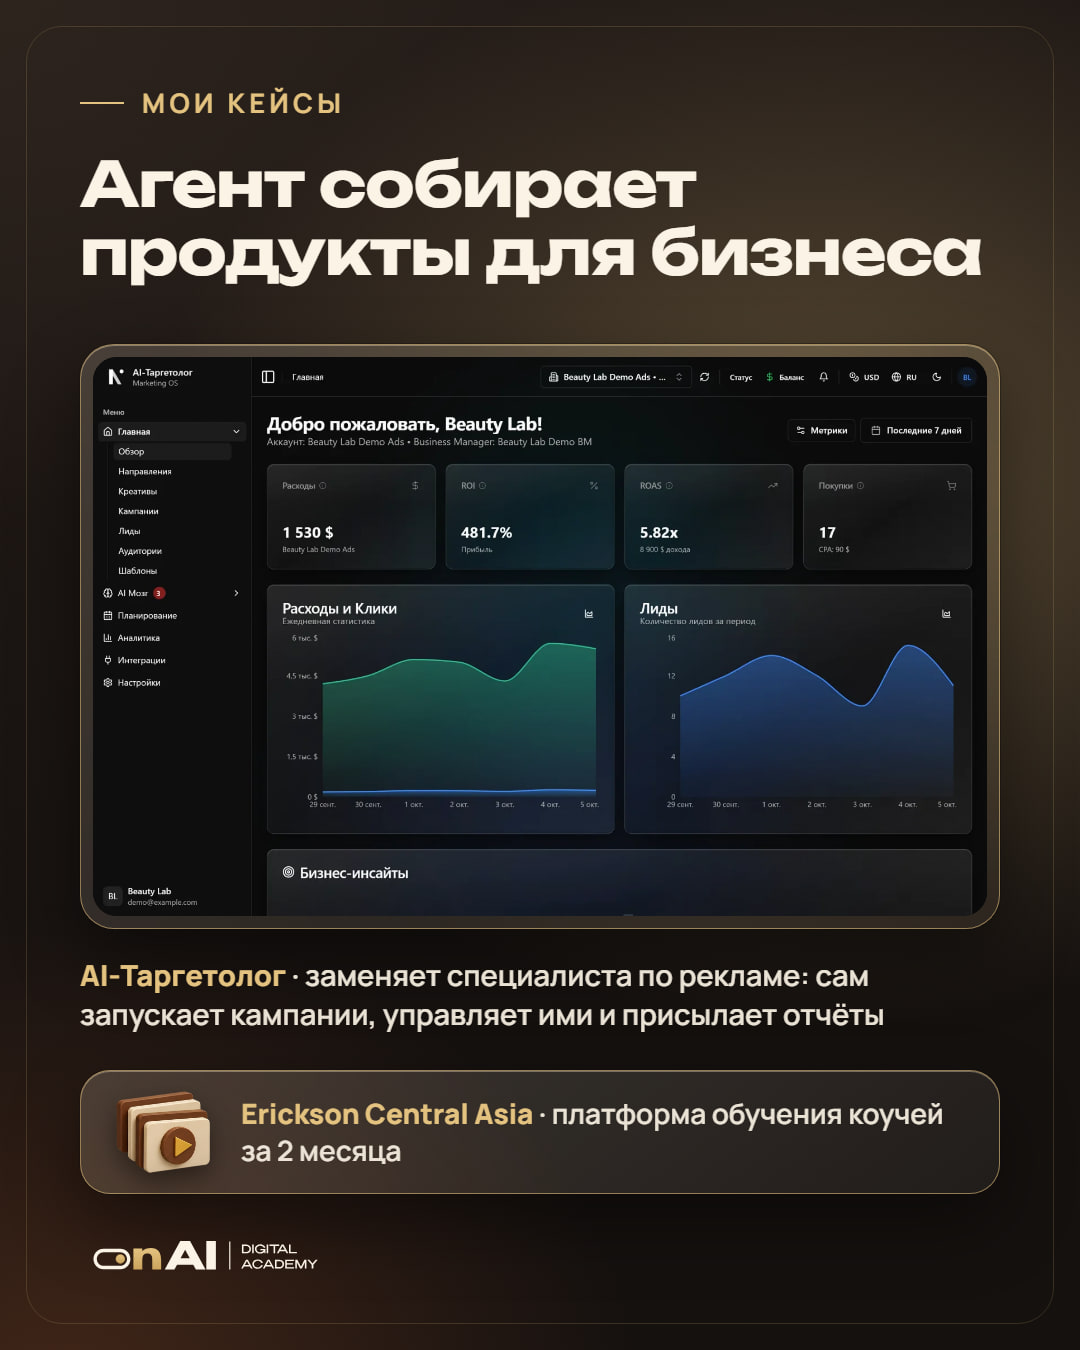
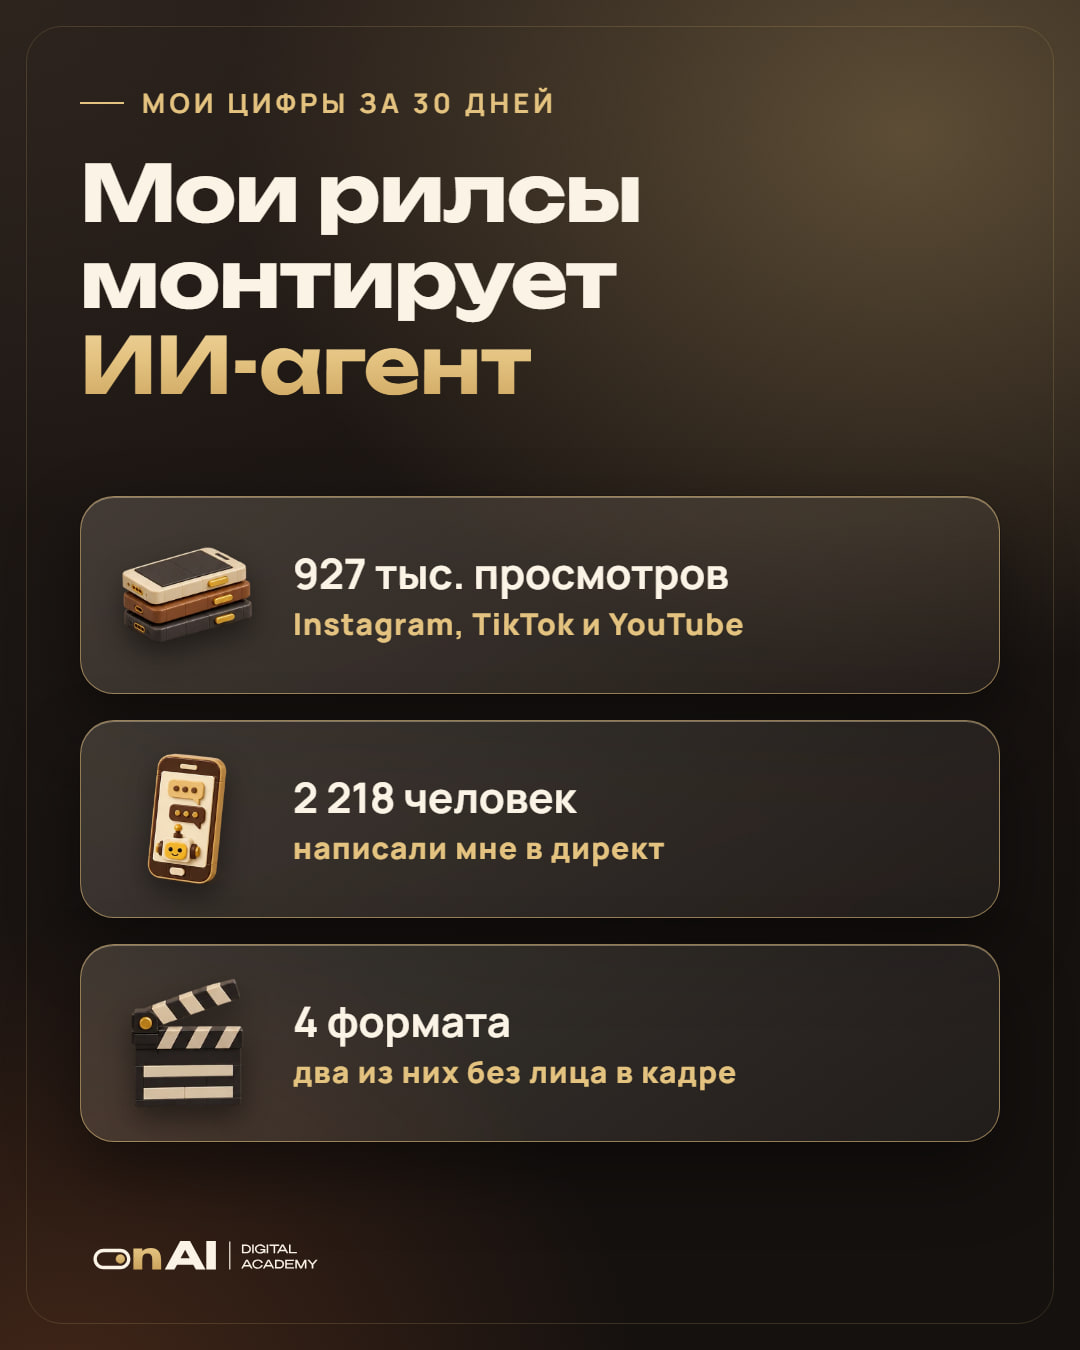
Воронка: карточка warm-cases перерисована под цифры без кейсов, адрес ?v=0810c, тесты 111/111 в UTC и Los Angeles; на сервер не выложено

diff --git a/form-api/tg.test.ts b/form-api/tg.test.ts
@@ -759,9 +759,11 @@ test("tg-series.json: воркшоп только про AI-монтаж, про
   }
   // перерисованные картинки отдаются с новой версией в адресе, иначе бот пришлёт старую из кеша file_id
   assert.match(raw.welcome.media.url, /cover-bizon\.jpg\?v=0810a$/);
-  for (const id of ["topic-p1", "warm-1700", "training-2058"]) {
+  for (const id of ["topic-p1", "training-2058"]) {
     assert.match(sr.messages.find((m) => m.id === id)!.media!.url, /\.jpg\?v=0810a$/, id);
   }
+  // карточка warm-cases перерисована под цифры без кейсов (Александр 08.10): версия 0810c
+  assert.match(sr.messages.find((m) => m.id === "warm-1700")!.media!.url, /warm-cases\.jpg\?v=0810c$/);
   // карточка оффера перерисована второй раз (третий бонус на плашке «В подарок»): версия 0810b
   assert.match(sr.messages.find((m) => m.id === "offer-2118")!.media!.url, /offer\.jpg\?v=0810b$/);
   // оффер и дожимы дня эфира идут только тем, кто был на эфире (нажал кнопку), остальным цену не называем

diff --git a/docs/tg-media/card.html b/docs/tg-media/card.html
@@ -103,7 +103,7 @@ const cards = {
   "warm-cases": {
     // с 08.10.2026 кейсов в рассылках нет (Александр): цифры охвата и заявок и форматы монтажа
     cls: "train", gx: "84%", gy: "10%",
-    html: `${lab("МОИ ЦИФРЫ ЗА 30 ДНЕЙ")}${head("Мои рилсы<br>монтирует <em>ИИ-агент</em>", 78)}
+    html: `${lab("МОИ ЦИФРЫ ЗА 30 ДНЕЙ")}${head("Мои рилсы<br>монтирует<br><em style=\"white-space:nowrap\">ИИ-агент</em>", 78)}
       <div class="glass row" style="top:496px"><div class="ic"><img src="${X3}lg-i-phones-x3.png" alt=""></div><div class="t">927&nbsp;тыс. просмотров<small>Instagram, TikTok и YouTube</small></div></div>
       <div class="glass row" style="top:720px"><div class="ic"><img src="${X3}lg-i-botchat-x3.png" alt=""></div><div class="t">2&nbsp;218 человек<small>написали мне в директ</small></div></div>
       <div class="glass row" style="top:944px"><div class="ic"><img src="${X3}lg-i-clapper-x3.png" alt=""></div><div class="t">4 формата<small>два из них без лица в кадре</small></div></div>${LOGO}`
